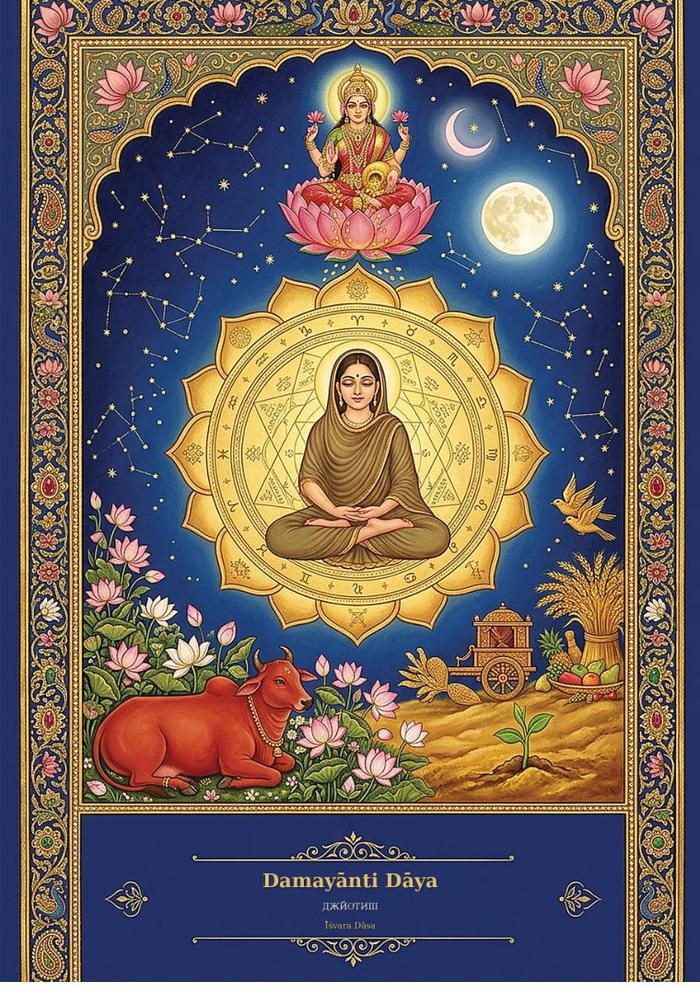
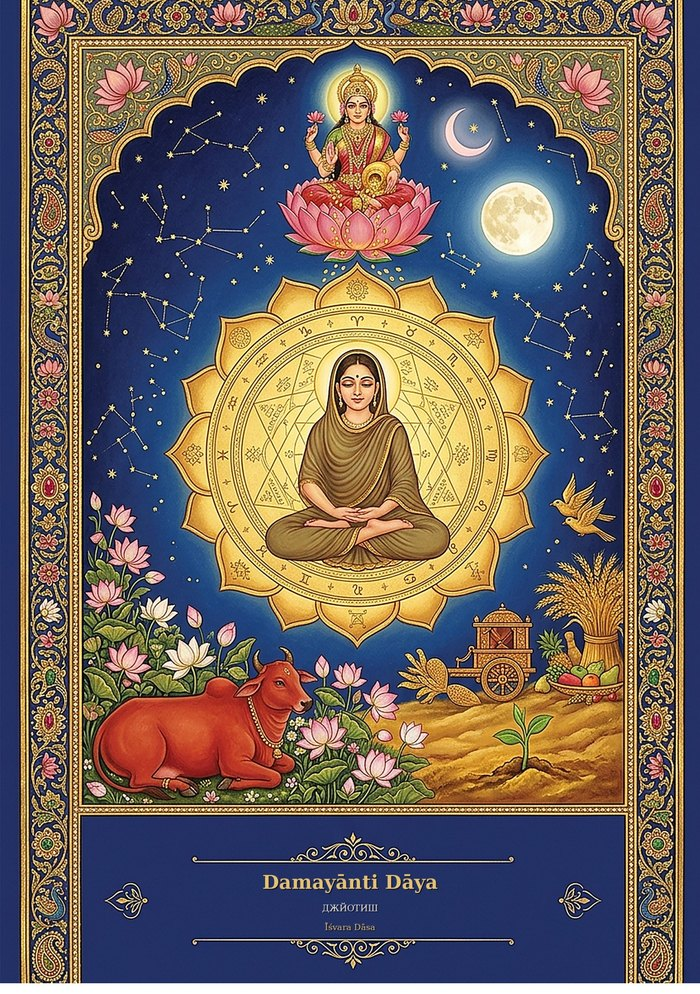
Первый экран книги: настоящая обложка крупным планом
Обложка взята из PDF книги Дамаянти и отрисована в 1400 px (WebP), вместо
прежней мелкой картинки. Анимация переделана по образцу «часовых» сайтов:
сначала камера стоит вплотную к обложке и скользит по ней, книга занимает
весь экран, потом камера отходит, книга поворачивается, раскрывается,
листаются страницы, закрывается и уходит влево.

Внутренние слои книги проявляются только когда камера отошла: вплотную они
выглядывали по краям из-за перспективы. Задняя обложка получила золотую
рамку, чтобы не мелькать тёмной плашкой при закрытии.

diff --git a/site.js b/site.js
@@ -271,9 +271,10 @@
   });
 })();
 
-/* Книга на первом экране страницы книги: объём и оживание при прокрутке.
-   Только десктоп и только если человек не просил убрать анимацию.
-   Разметку не трогаем - если скрипт не сработал, остаётся обычная обложка. */
+/* Книга на первом экране страницы книги: крупный план и оживание при прокрутке.
+   Сделано по образцу «часовых» сайтов: сначала камера идёт вплотную к обложке
+   и скользит по ней, потом отходит, книга поворачивается и раскрывается.
+   Только десктоп; разметку не трогаем - без скрипта остаётся обычная обложка. */
 (function () {
   var fig = document.querySelector('.hero-cloth .book-object');
   if (!fig) return;
@@ -283,21 +284,28 @@
   var img = fig.querySelector('.book-cover img');
   if (!section || !img || !section.parentNode) return;
 
+  var COVER = img.getAttribute('src').replace(/img\/personal-book\.jpg.*$/, 'img/book-cover-hd.webp');
+
   var stage = document.createElement('div');
   stage.className = 'book3d-stage';
-  stage.style.height = '320vh';
+  stage.style.height = '380vh';
   section.parentNode.insertBefore(stage, section);
   stage.appendChild(section);
   section.classList.add('book3d-sticky');
 
+  var echo = document.createElement('div');
+  echo.className = 'book3d-echo';
+  echo.innerHTML = '<img src="' + COVER + '" alt="">';
+  fig.appendChild(echo);
+
   var sheets = '';
-  for (var i = 0; i < 6; i++) sheets += '<span class="b-sheet" style="--i:' + i + '"></span>';
+  for (var i = 0; i < 7; i++) sheets += '<span class="b-sheet" style="--i:' + i + '"></span>';
   var scene = document.createElement('div');
   scene.className = 'book3d-scene';
   scene.innerHTML = '<div class="book3d">' +
     '<span class="b-back"></span><span class="b-block"></span><span class="b-spine"></span>' +
     '<span class="b-leaves">' + sheets + '</span>' +
-    '<span class="b-front"><img src="' + img.getAttribute('src') + '" alt=""><span class="b-glare"></span></span>' +
+    '<span class="b-front"><img src="' + COVER + '" alt=""><span class="b-glare"></span></span>' +
     '</div>';
   fig.appendChild(scene);
   fig.classList.add('is-3d');
@@ -326,51 +334,60 @@
     var total = stage.offsetHeight - window.innerHeight;
     var p = Math.max(0, Math.min(1, -rect.top / (total || 1)));
 
-    // 1. камера подходит к книге и скользит по обложке
-    var a = ease(span(p, 0, 0.18));
-    // 2. книга поворачивается
-    var b = ease(span(p, 0.18, 0.38));
-    // 3. камера отходит
-    var c = ease(span(p, 0.38, 0.52));
-    // 4. книга открывается и листаются страницы
-    var d = ease(span(p, 0.52, 0.80));
-    // 5. книга уходит влево, появляется текст
-    var e = ease(span(p, 0.80, 1));
+    var a = ease(span(p, 0, 0.24));     // вплотную: камера скользит по обложке
+    var b = ease(span(p, 0.24, 0.44));  // камера отходит, книга поворачивается
+    var c = ease(span(p, 0.44, 0.56));  // разворот к зрителю
+    var d = ease(span(p, 0.56, 0.82));  // раскрывается, листаются страницы
+    var e = ease(span(p, 0.82, 1));     // закрывается и уходит влево
+    var move = ease(span(p, 0.72, 0.95));
 
-    var scale = lerp(0.82, 1.5, a);
-    scale = lerp(scale, 1.32, b);
+    var scale = lerp(2.62, 2.15, a);
+    scale = lerp(scale, 1.18, b);
     scale = lerp(scale, 1.02, c);
-    scale = lerp(scale, 0.92, e);
-    var rotY = lerp(-6, 2, a);
-    rotY = lerp(rotY, -42, b);
-    rotY = lerp(rotY, -16, c);
-    rotY = lerp(rotY, -8, d);
+    scale = lerp(scale, 0.78, e);
+
+    var rotY = lerp(-5, 4, a);
+    rotY = lerp(rotY, -40, b);
+    rotY = lerp(rotY, -13, c);
+    rotY = lerp(rotY, -7, d);
     rotY = lerp(rotY, 0, e);
-    var rotX = lerp(6, 0, a) + lerp(0, 4, b) - lerp(0, 4, c);
-    // книга уезжает влево раньше, чем проявляется текст,
-    // чтобы они не накладывались друг на друга
-    var move = ease(span(p, 0.70, 0.93));
+
+    var rotX = lerp(3, -2, a) + lerp(0, 4, b) - lerp(0, 4, c);
+
+    // скольжение камеры по обложке в первой фазе
+    var panX = lerp(-9, 7, a) * (1 - b);
+    var panY = lerp(7, -6, a) * (1 - b);
+
     var shift = centerShift * (1 - move);
-    var lift = lerp(30, 0, a) - lerp(0, 10, d);
+    var vw = window.innerWidth / 100;
 
-    scene.style.transform = 'translate3d(' + shift.toFixed(1) + 'px,' + lift.toFixed(1) + 'px,0)';
-    book.style.transform = 'scale(' + scale.toFixed(3) + ') rotateX(' + rotX.toFixed(2) + 'deg) rotateY(' + rotY.toFixed(2) + 'deg)';
-    glare.style.transform = 'translateX(' + lerp(-70, 70, a).toFixed(1) + '%)';
-    glare.style.opacity = (a > 0 && a < 1 ? 1 : 0.12).toFixed(2);
-    // к концу книга закрывается, чтобы первый экран замер на обложке,
-    // а не на пустой странице
-    var open = d * (1 - e);
+    scene.style.transform = 'translate3d(' + (shift + panX * vw).toFixed(1) + 'px,' +
+      (panY * vw).toFixed(1) + 'px,0)';
+    // внутренние слои книги проявляются, только когда камера отошла:
+    // вплотную к обложке они выглядывают по краям из-за перспективы
+    book.style.setProperty('--inner', Math.min(1, b * 1.7).toFixed(2));
+    book.style.transform = 'scale(' + scale.toFixed(3) + ') rotateX(' + rotX.toFixed(2) +
+      'deg) rotateY(' + rotY.toFixed(2) + 'deg)';
+
+    echo.style.transform = 'translate3d(' + (shift + panX * vw * 0.45).toFixed(1) + 'px,' +
+      (panY * vw * 0.45 - 20).toFixed(1) + 'px,0) scale(' + (scale * 1.5).toFixed(3) + ')';
+    echo.style.opacity = (0.42 * (1 - Math.max(c, e))).toFixed(3);
+
+    glare.style.transform = 'translateX(' + lerp(-75, 75, a).toFixed(1) + '%)';
+    glare.style.opacity = (a > 0.02 && a < 0.98 ? 0.9 : 0.1).toFixed(2);
+
+    // закрывается быстрее, чем уезжает, чтобы не мелькать тёмной изнанкой
+    var open = d * (1 - ease(span(p, 0.78, 0.88)));
     front.style.transform = 'rotateY(' + (-152 * open).toFixed(2) + 'deg)';
-
     for (var i = 0; i < leaves.length; i++) {
-      var from = 0.56 + i * 0.035, to = from + 0.06;
-      var t = ease(span(p, from, to));
-      leaves[i].style.transform = 'translateZ(' + (-2 * i) + 'px) rotateY(' + (-150 * t * (1 - e)).toFixed(2) + 'deg)';
+      var from = 0.60 + i * 0.028, to = from + 0.05;
+      var t = ease(span(p, from, to)) * (1 - ease(span(p, 0.78, 0.88)));
+      leaves[i].style.transform = 'translateZ(' + (-2.5 * i) + 'px) rotateY(' + (-150 * t).toFixed(2) + 'deg)';
     }
 
     // прозрачность ставим прямо здесь: если скрипт не дойдёт сюда,
     // текст останется видимым, а не пропадёт со страницы
-    var show = ease(span(p, 0.80, 0.96));
+    var show = ease(span(p, 0.84, 0.97));
     if (text) {
       text.style.opacity = show.toFixed(3);
       text.style.transform = 'translateY(' + lerp(22, 0, show).toFixed(1) + 'px)';

diff --git a/style.css b/style.css
@@ -719,29 +719,39 @@ body::after{z-index:-1;background:
 /* ===== v21: объёмная книга на первом экране страницы книги ===== */
 .book3d-stage{position:relative}
 .book3d-sticky{position:sticky;top:0;min-height:100svh;display:flex;align-items:center;overflow:hidden}
+.book3d-sticky::after{content:"";position:absolute;inset:0;pointer-events:none;z-index:3;
+  background:radial-gradient(120% 90% at 50% 45%,rgba(0,0,0,0) 38%,rgba(6,10,28,.55) 100%)}
 .book-object.is-3d .book-cover{opacity:0;visibility:hidden}
-.book-object.is-3d{position:relative;perspective:1600px;perspective-origin:50% 45%}
-.book3d-scene{position:absolute;inset:0;display:flex;align-items:center;justify-content:center;transform-style:preserve-3d;will-change:transform}
-.book3d{position:relative;width:min(300px,22vw);aspect-ratio:700/994;transform-style:preserve-3d;will-change:transform}
+.book-object.is-3d{position:relative;perspective:2100px;perspective-origin:50% 46%}
+.book3d-scene{position:absolute;inset:0;display:flex;align-items:center;justify-content:center;
+  transform-style:preserve-3d;will-change:transform;z-index:2}
+.book3d-echo{position:absolute;inset:0;display:flex;align-items:center;justify-content:center;
+  pointer-events:none;z-index:1;filter:blur(26px) saturate(.9);opacity:.4;will-change:transform,opacity}
+.book3d-echo img{height:58svh;width:auto;border-radius:4px}
+.book3d{position:relative;height:58svh;aspect-ratio:1400/1987;transform-style:preserve-3d;will-change:transform;--inner:0}
+.book3d .b-back,.book3d .b-block,.book3d .b-leaves{opacity:var(--inner)}
 .book3d span{position:absolute;display:block}
-.book3d .b-front,.book3d .b-back{inset:0;border-radius:2px 6px 6px 2px;backface-visibility:hidden;transform-style:preserve-3d}
+.book3d .b-front,.book3d .b-back{inset:0;border-radius:2px 7px 7px 2px;backface-visibility:hidden;transform-style:preserve-3d}
 .book3d .b-front{transform-origin:left center;background:var(--cloth-deep);overflow:hidden;
-  box-shadow:0 2px 0 rgba(0,0,0,.35),0 40px 60px -28px rgba(0,0,0,.9)}
+  box-shadow:0 2px 0 rgba(0,0,0,.4),0 60px 90px -40px rgba(0,0,0,.95)}
 .book3d .b-front img{width:100%;height:100%;object-fit:cover;display:block}
-.book3d .b-glare{position:absolute;inset:-10% -60%;background:linear-gradient(105deg,rgba(255,255,255,0) 38%,rgba(255,255,255,.34) 50%,rgba(255,255,255,0) 62%);pointer-events:none}
-.book3d .b-back{transform:translateZ(-26px);background:linear-gradient(120deg,#1B2450,#141B3E);border-radius:2px 6px 6px 2px}
-.book3d .b-spine{left:0;top:0;bottom:0;width:26px;transform-origin:left center;transform:rotateY(-90deg);
-  background:linear-gradient(90deg,#141B3E,#232E66 55%,#141B3E);border-radius:2px 0 0 2px}
-.book3d .b-block{top:6px;bottom:6px;right:1px;width:22px;transform:translateZ(-13px) translateX(3px);
-  background:repeating-linear-gradient(90deg,#F4EEE1 0 2px,#DCD2BC 2px 3px);border-radius:0 3px 3px 0}
-.book3d .b-leaves{inset:6px 2px 6px 0;transform-style:preserve-3d}
+.book3d .b-glare{position:absolute;inset:-14% -70%;pointer-events:none;
+  background:linear-gradient(104deg,rgba(255,255,255,0) 40%,rgba(255,255,255,.3) 50%,rgba(255,255,255,0) 60%)}
+.book3d .b-back{transform:translateZ(-34px);background:linear-gradient(120deg,#1B2450,#141B3E);border-radius:2px 7px 7px 2px;box-shadow:inset 0 0 0 1px rgba(205,177,111,.35),inset 0 0 0 9px #161E45,inset 0 0 0 10px rgba(205,177,111,.22)}
+.book3d .b-spine{left:0;top:0;bottom:0;width:34px;transform-origin:left center;transform:rotateY(-90deg);
+  background:linear-gradient(90deg,#141B3E,#28336F 55%,#141B3E);border-radius:2px 0 0 2px}
+.book3d .b-block{top:9px;bottom:9px;right:2px;width:26px;transform:translateZ(-17px) translateX(2px);
+  background:repeating-linear-gradient(90deg,#F4EEE1 0 2px,#DCD2BC 2px 3px);border-radius:0 4px 4px 0}
+.book3d .b-leaves{inset:11px 7px 11px 7px;transform-style:preserve-3d}
 .book3d .b-sheet{inset:0;transform-origin:left center;background:linear-gradient(105deg,#FBF7EE,#EFE7D6);
-  border-radius:0 4px 4px 0;box-shadow:inset 0 0 0 1px rgba(117,89,26,.12);
-  transform:translateZ(calc(-2px * var(--i))) rotateY(0deg);backface-visibility:hidden}
-.book3d .b-sheet::after{content:"";position:absolute;inset:14% 12% 14% 16%;
-  background:repeating-linear-gradient(180deg,rgba(28,28,40,.16) 0 1px,transparent 1px 9px);opacity:.5}
+  border-radius:0 5px 5px 0;box-shadow:inset 0 0 0 1px rgba(117,89,26,.12);
+  transform:translateZ(calc(-2.5px * var(--i)));backface-visibility:hidden}
+.book3d .b-sheet::after{content:"";position:absolute;inset:13% 11% 13% 15%;
+  background:repeating-linear-gradient(180deg,rgba(28,28,40,.16) 0 1px,transparent 1px 10px);opacity:.55}
 .hero-late{transition:opacity .55s ease,transform .55s ease}
-@media (max-width:999px){.book3d-sticky{position:static;min-height:0}.book3d-scene{display:none}}
+@media (max-width:999px){.book3d-sticky{position:static;min-height:0;overflow:visible}
+  .book3d-sticky::after{display:none}.book3d-scene,.book3d-echo{display:none}}
+
 /* ===== v22: подзаголовки выделены золотой чертой, перечень сфер ===== */
 .nontemplate h3{position:relative;margin:0 0 10px;padding-top:16px;font-family:var(--f-display);
   font-size:24px;line-height:1.15;color:var(--lapis)}

diff --git a/en/privacy/index.html b/en/privacy/index.html
@@ -14,7 +14,7 @@
 <link rel="preconnect" href="https://fonts.googleapis.com">
 <link rel="preconnect" href="https://fonts.gstatic.com" crossorigin>
 <link href="https://fonts.googleapis.com/css2?family=IBM+Plex+Mono:wght@400;500&family=Literata:ital,opsz,wght@0,7..72,400;0,7..72,500;0,7..72,600;1,7..72,400&family=Old+Standard+TT:ital,wght@0,400;0,700;1,400&display=swap" rel="stylesheet">
-<link rel="stylesheet" href="../../style.css?v=1789891162">
+<link rel="stylesheet" href="../../style.css?v=1789892525">
 <link rel="alternate" hreflang="ru" href="../../privacy/">
 </head>
 <body>
@@ -189,6 +189,6 @@
   </div>
 </footer>
 
-<script src="../../site.js?v=1789891162"></script>
+<script src="../../site.js?v=1789892525"></script>
 </body>
 </html>

diff --git a/en/personal-book/index.html b/en/personal-book/index.html
@@ -14,7 +14,7 @@
 <link rel="preconnect" href="https://fonts.googleapis.com">
 <link rel="preconnect" href="https://fonts.gstatic.com" crossorigin>
 <link href="https://fonts.googleapis.com/css2?family=IBM+Plex+Mono:wght@400;500&family=Literata:ital,opsz,wght@0,7..72,400;0,7..72,500;0,7..72,600;1,7..72,400&family=Old+Standard+TT:ital,wght@0,400;0,700;1,400&display=swap" rel="stylesheet">
-<link rel="stylesheet" href="../../style.css?v=1789891162">
+<link rel="stylesheet" href="../../style.css?v=1789892525">
 <link rel="alternate" hreflang="ru" href="../../kniga/">
 </head>
 <body>
@@ -251,6 +251,6 @@
   </div>
 </footer>
 
-<script src="../../site.js?v=1789891162"></script>
+<script src="../../site.js?v=1789892525"></script>
 </body>
 </html>

diff --git a/kniga/index.html b/kniga/index.html
@@ -14,7 +14,7 @@
 <link rel="preconnect" href="https://fonts.googleapis.com">
 <link rel="preconnect" href="https://fonts.gstatic.com" crossorigin>
 <link href="https://fonts.googleapis.com/css2?family=IBM+Plex+Mono:wght@400;500&family=Literata:ital,opsz,wght@0,7..72,400;0,7..72,500;0,7..72,600;1,7..72,400&family=Old+Standard+TT:ital,wght@0,400;0,700;1,400&display=swap" rel="stylesheet">
-<link rel="stylesheet" href="../style.css?v=1789891162">
+<link rel="stylesheet" href="../style.css?v=1789892525">
 <link rel="alternate" hreflang="en" href="../en/personal-book/">
 </head>
 <body>
@@ -251,6 +251,6 @@
   </div>
 </footer>
 
-<script src="../site.js?v=1789891162"></script>
+<script src="../site.js?v=1789892525"></script>
 </body>
 </html>

diff --git a/privacy/index.html b/privacy/index.html
@@ -14,7 +14,7 @@
 <link rel="preconnect" href="https://fonts.googleapis.com">
 <link rel="preconnect" href="https://fonts.gstatic.com" crossorigin>
 <link href="https://fonts.googleapis.com/css2?family=IBM+Plex+Mono:wght@400;500&family=Literata:ital,opsz,wght@0,7..72,400;0,7..72,500;0,7..72,600;1,7..72,400&family=Old+Standard+TT:ital,wght@0,400;0,700;1,400&display=swap" rel="stylesheet">
-<link rel="stylesheet" href="../style.css?v=1789891162">
+<link rel="stylesheet" href="../style.css?v=1789892525">
 <link rel="alternate" hreflang="en" href="../en/privacy/">
 </head>
 <body>
@@ -197,6 +197,6 @@
   </div>
 </footer>
 
-<script src="../site.js?v=1789891162"></script>
+<script src="../site.js?v=1789892525"></script>
 </body>
 </html>

diff --git a/en/index.html b/en/index.html
@@ -14,7 +14,7 @@
 <link rel="preconnect" href="https://fonts.googleapis.com">
 <link rel="preconnect" href="https://fonts.gstatic.com" crossorigin>
 <link href="https://fonts.googleapis.com/css2?family=IBM+Plex+Mono:wght@400;500&family=Literata:ital,opsz,wght@0,7..72,400;0,7..72,500;0,7..72,600;1,7..72,400&family=Old+Standard+TT:ital,wght@0,400;0,700;1,400&display=swap" rel="stylesheet">
-<link rel="stylesheet" href="../style.css?v=1789891162">
+<link rel="stylesheet" href="../style.css?v=1789892525">
 <link rel="alternate" hreflang="ru" href="../">
 </head>
 <body>
@@ -334,6 +334,6 @@
   </div>
 </footer>
 
-<script src="../site.js?v=1789891162"></script>
+<script src="../site.js?v=1789892525"></script>
 </body>
 </html>

diff --git a/index.html b/index.html
@@ -14,7 +14,7 @@
 <link rel="preconnect" href="https://fonts.googleapis.com">
 <link rel="preconnect" href="https://fonts.gstatic.com" crossorigin>
 <link href="https://fonts.googleapis.com/css2?family=IBM+Plex+Mono:wght@400;500&family=Literata:ital,opsz,wght@0,7..72,400;0,7..72,500;0,7..72,600;1,7..72,400&family=Old+Standard+TT:ital,wght@0,400;0,700;1,400&display=swap" rel="stylesheet">
-<link rel="stylesheet" href="style.css?v=1789891162">
+<link rel="stylesheet" href="style.css?v=1789892525">
 <link rel="alternate" hreflang="en" href="en/">
 </head>
 <body>
@@ -335,6 +335,6 @@
   </div>
 </footer>
 
-<script src="site.js?v=1789891162"></script>
+<script src="site.js?v=1789892525"></script>
 </body>
 </html>
